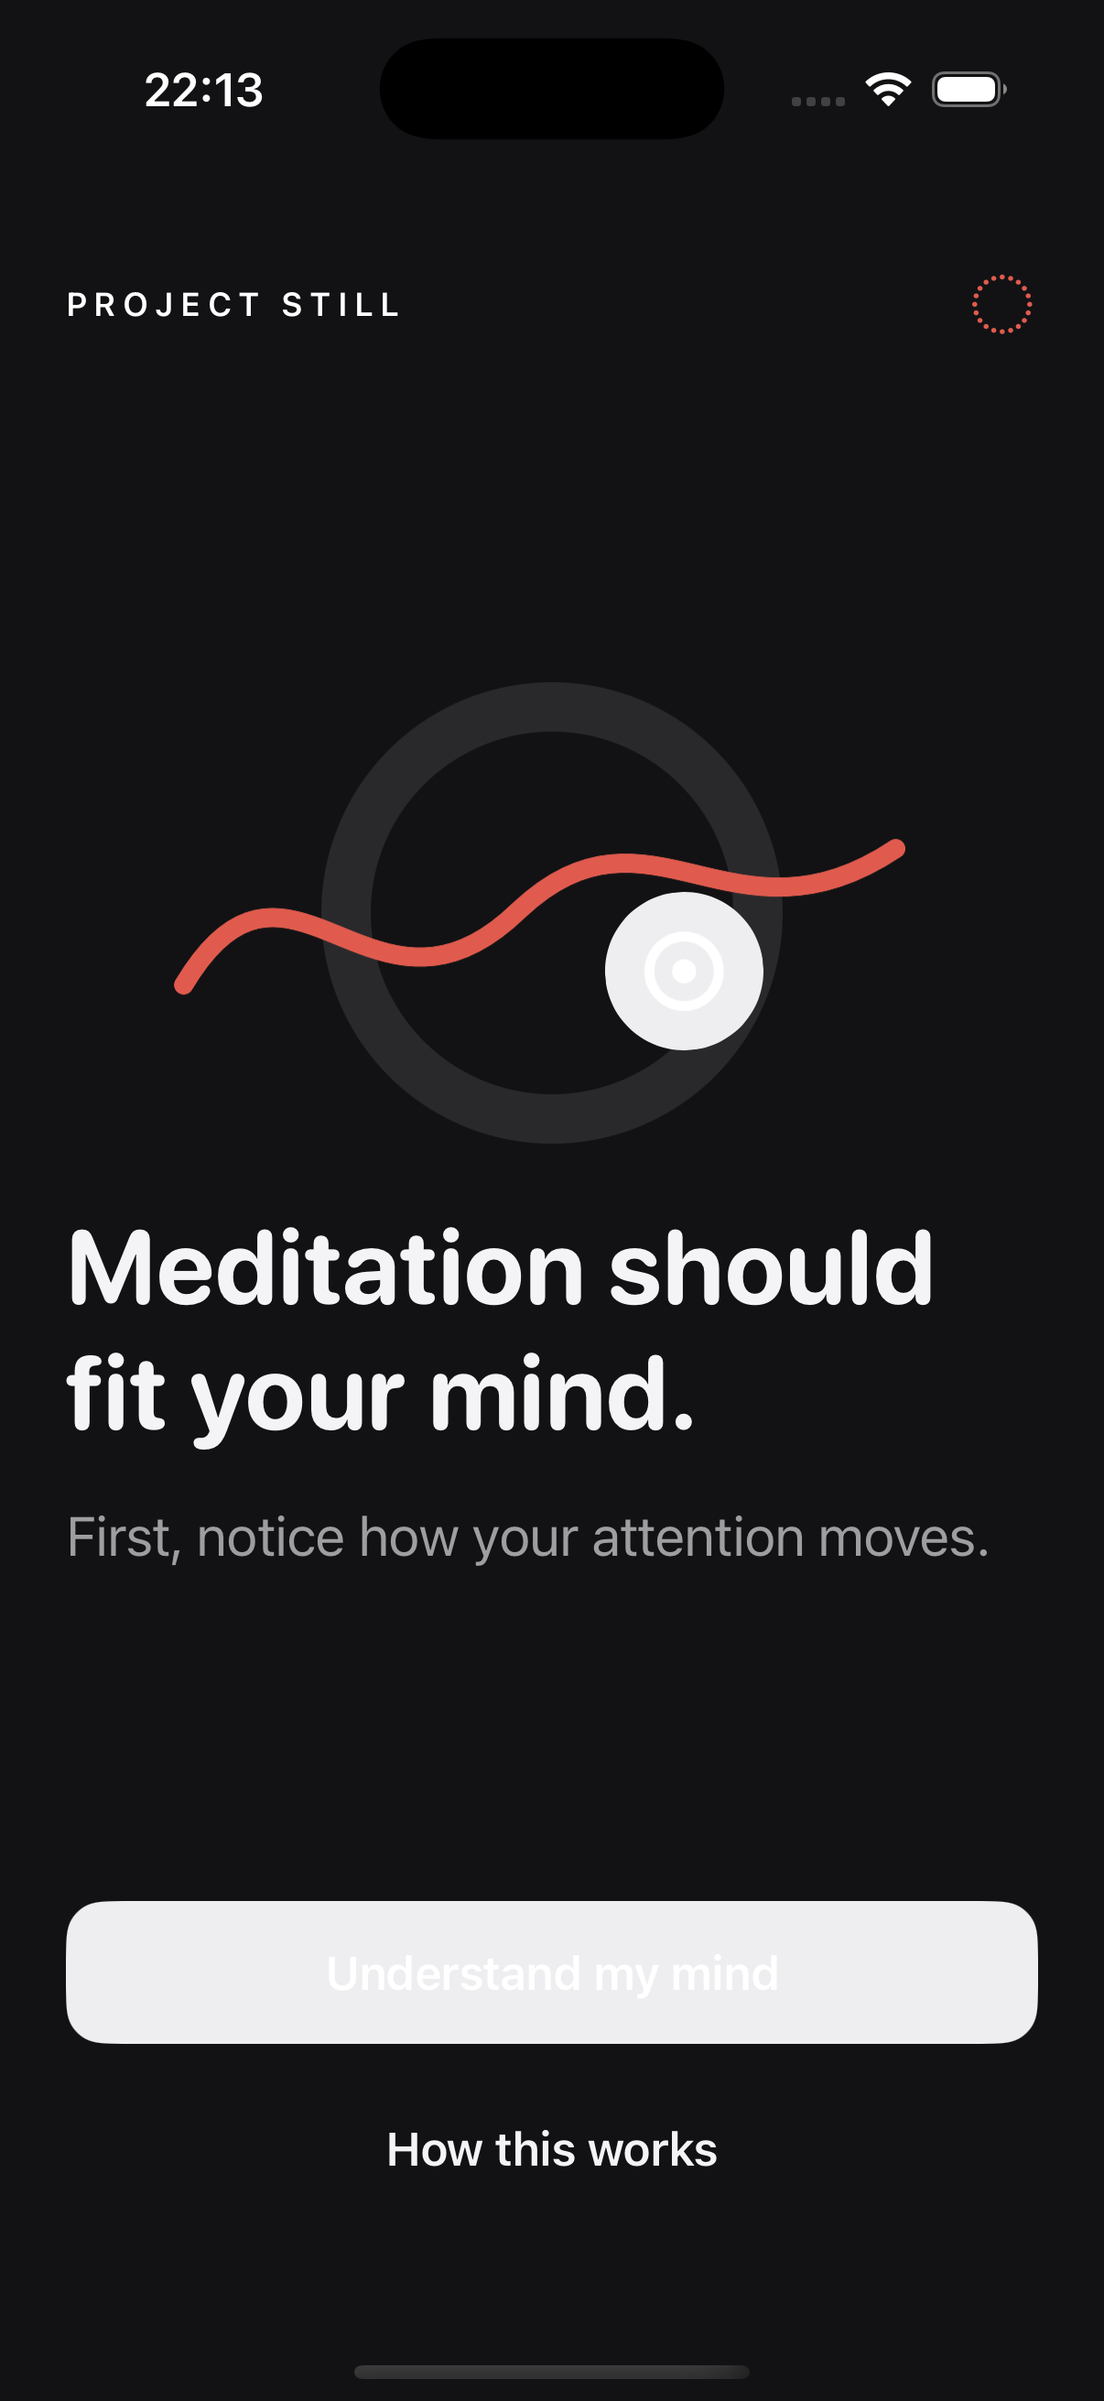
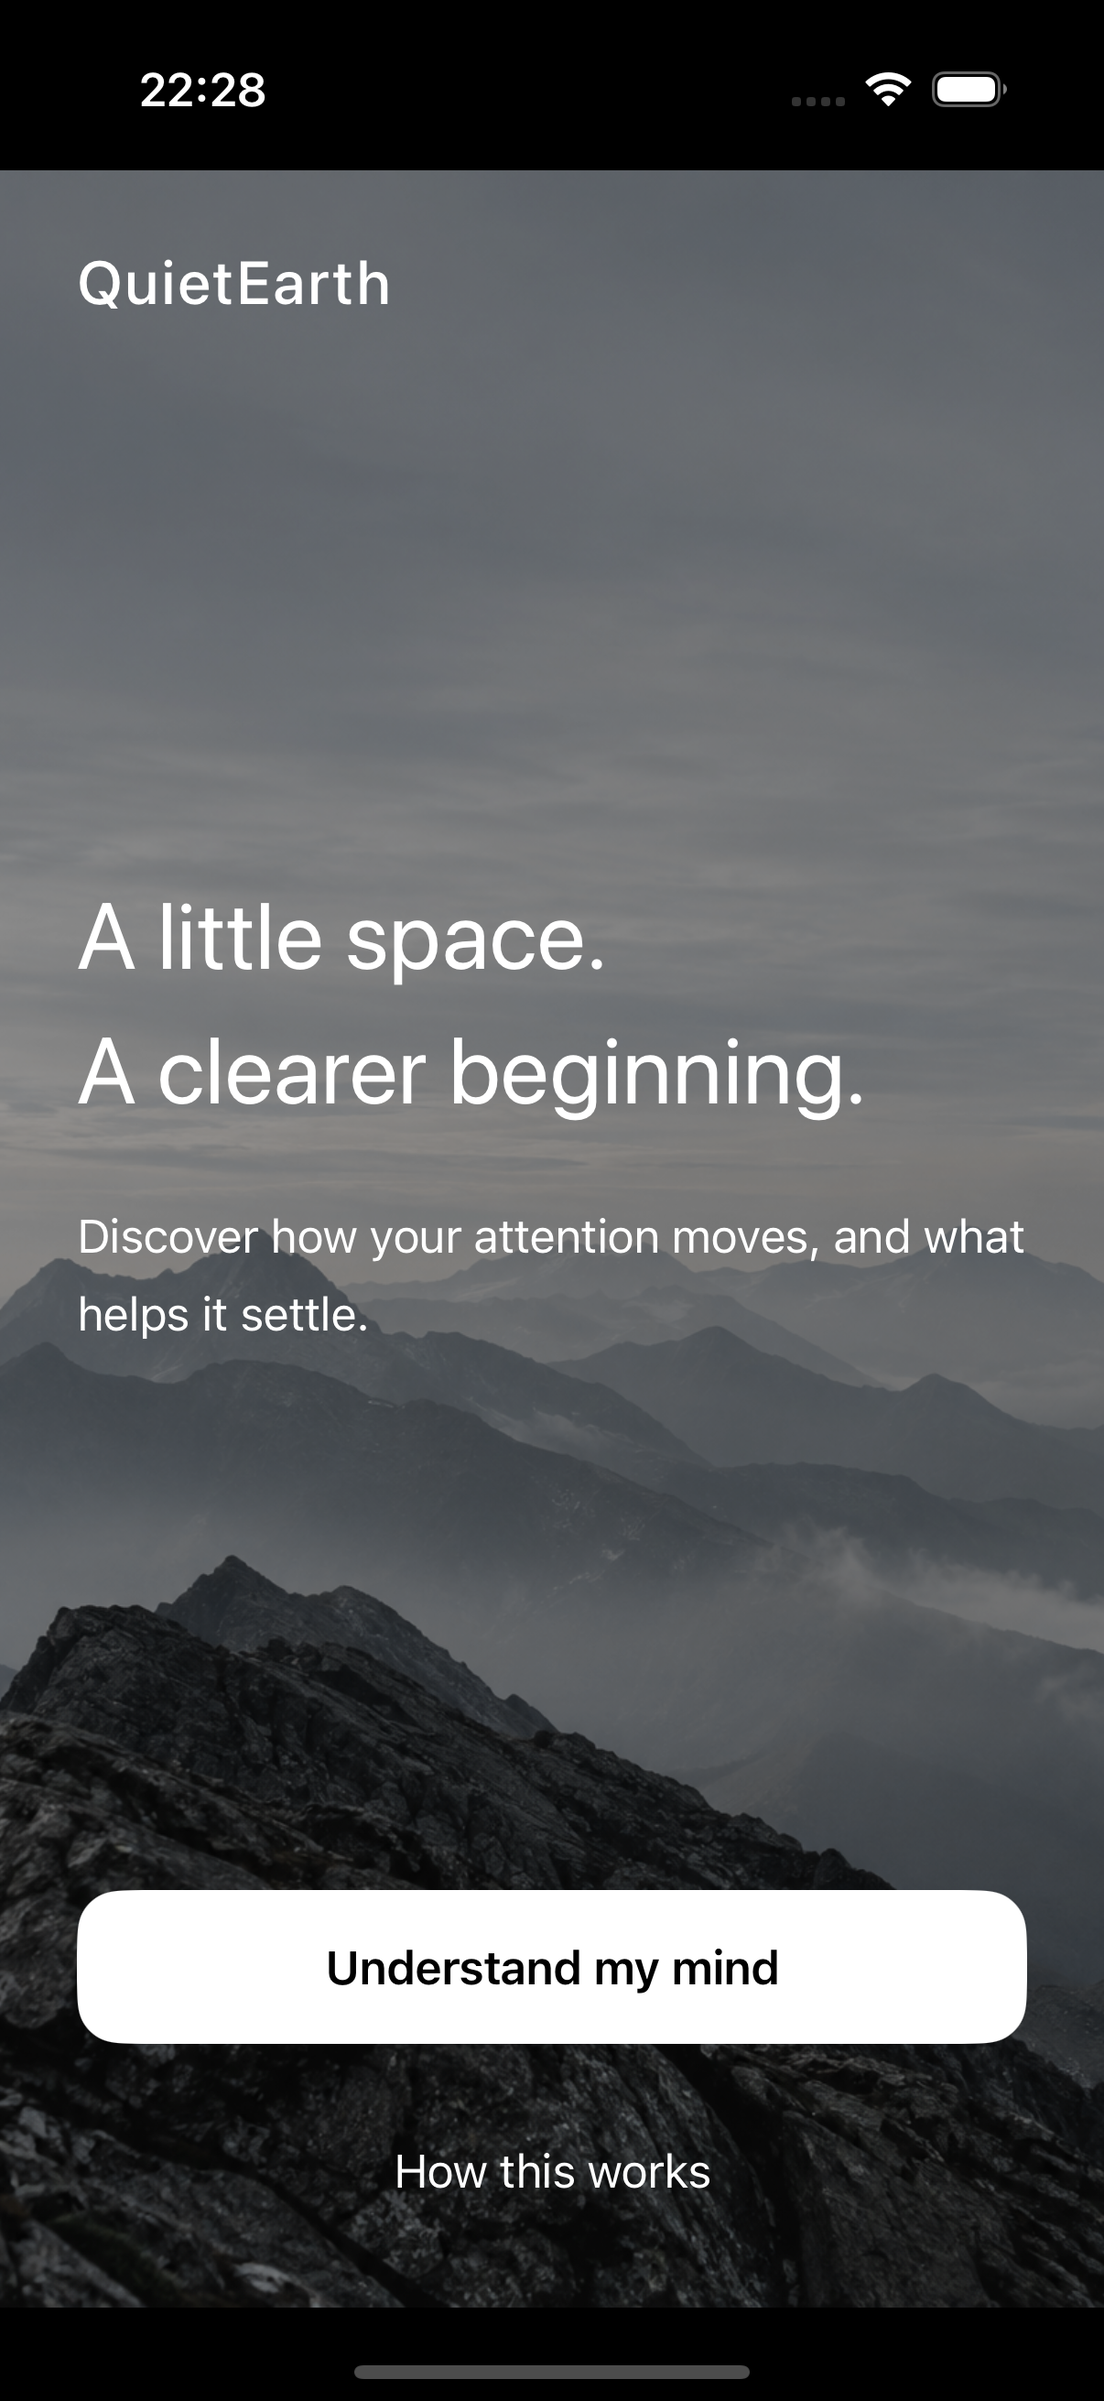
Finish QuietEarth landscape identity and quiet reading interface

diff --git a/ProjectStill/Features/Onboarding/OpeningView.swift b/ProjectStill/Features/Onboarding/OpeningView.swift
@@ -6,54 +6,48 @@ struct OpeningView: View {
     let onLearnMore: () -> Void
 
     var body: some View {
-        ZStack {
-            Color.quietPaper.ignoresSafeArea()
-
-            VStack(alignment: .leading, spacing: QuietSpacing.section) {
-                HStack {
-                    Text("PROJECT STILL")
-                        .font(.caption.weight(.semibold))
-                        .tracking(2.4)
-                    Spacer()
-                    Image(systemName: "circle.dotted")
-                        .font(.title2)
-                        .foregroundStyle(Color.quietCoral)
+        GeometryReader { geometry in
+            ZStack {
+                Image("QuietEarthLandscape")
+                    .resizable()
+                    .scaledToFill()
+                    .frame(width: geometry.size.width, height: geometry.size.height)
+                    .clipped()
+                    .overlay(Color.black.opacity(0.40))
+                    .accessibilityHidden(true)
+                ScrollView {
+                    VStack(alignment: .leading, spacing: 24) {
+                        Text("QuietEarth")
+                            .font(.title2.weight(.medium))
+                            .tracking(1)
+                            .padding(.top, 24)
+                        Spacer(minLength: 100)
+                        Text("A little space.\nA clearer beginning.")
+                            .font(.quietDisplay)
+                            .accessibilityAddTraits(.isHeader)
+                        Text("Discover how your attention moves, and what helps it settle.")
+                            .font(.body)
+                            .lineSpacing(4)
+                        Spacer(minLength: 60)
+                        Button(primaryTitle, action: onBegin)
+                            .font(.headline)
+                            .foregroundStyle(Color.black)
+                            .frame(maxWidth: .infinity, minHeight: 56)
+                            .background(.white, in: RoundedRectangle(cornerRadius: 16))
+                            .accessibilityIdentifier("opening.begin")
+                        Button("How this works", action: onLearnMore)
+                            .font(.body)
+                            .frame(maxWidth: .infinity, minHeight: 44)
+                            .accessibilityIdentifier("opening.learnMore")
+                    }
+                    .foregroundStyle(.white)
+                    .padding(.horizontal, 28)
+                    .padding(.bottom, 28)
+                    .frame(minHeight: geometry.size.height, alignment: .topLeading)
                 }
-
-                Spacer(minLength: 28)
-
-                VStack(alignment: .leading, spacing: QuietSpacing.standard) {
-                    AttentionPathHero()
-                    Text("Meditation should fit your mind.")
-                        .font(.quietDisplay)
-                        .foregroundStyle(Color.quietInk)
-                        .accessibilityAddTraits(.isHeader)
-                    Text("First, notice how your attention moves.")
-                        .font(.title3)
-                        .foregroundStyle(Color.quietInk.opacity(0.62))
-                }
-
-                Spacer(minLength: 28)
-                VStack(spacing: QuietSpacing.standard) {
-                    Button(primaryTitle, action: onBegin)
-                        .buttonStyle(.primaryAction)
-                        .accessibilityIdentifier("opening.begin")
-
-                    Button("How this works", action: onLearnMore)
-                        .font(.headline)
-                        .frame(minHeight: 44)
-                        .foregroundStyle(Color.quietInk)
-                        .accessibilityIdentifier("opening.learnMore")
-                }
-
             }
-            .padding(.horizontal, QuietSpacing.generous)
-            .padding(.vertical, QuietSpacing.section)
         }
+        .background(Color.black.ignoresSafeArea())
         .toolbar(.hidden, for: .navigationBar)
     }
-}
-
-#Preview {
-    OpeningView(onBegin: {}, onLearnMore: {})
 }

diff --git a/ProjectStill/DesignSystem/ContourField.swift b/ProjectStill/DesignSystem/ContourField.swift
@@ -1,83 +1,1 @@
-import SwiftUI
-
-struct ContourField: View {
-    var alignment: Alignment = .center
-
-    var body: some View {
-        Canvas { context, size in
-            let originX = alignment == .topTrailing ? size.width * 0.7 : size.width * 0.5
-            let originY = alignment == .topTrailing ? size.height * 0.16 : size.height * 0.5
-            for index in 0..<4 {
-                let radius = CGFloat(72 + index * 34)
-                let rect = CGRect(
-                    x: originX - radius,
-                    y: originY - radius * 0.72,
-                    width: radius * 2,
-                    height: radius * 1.44
-                )
-                context.stroke(
-                    Path(ellipseIn: rect),
-                    with: .color(.quietSeaGlass.opacity(0.08)),
-                    lineWidth: 1
-                )
-            }
-        }
-        .allowsHitTesting(false)
-        .accessibilityHidden(true)
-    }
-}
-
-struct AttentionPathHero: View {
-    @Environment(\.accessibilityReduceMotion) private var reduceMotion
-    @State private var isMoving = false
-
-    var body: some View {
-        GeometryReader { proxy in
-            ZStack {
-                Circle()
-                    .stroke(Color.quietInk.opacity(0.1), lineWidth: 18)
-                    .frame(width: 150, height: 150)
-
-                Canvas { context, size in
-                    var path = Path()
-                    path.move(to: CGPoint(x: size.width * 0.05, y: size.height * 0.7))
-                    path.addCurve(
-                        to: CGPoint(x: size.width * 0.46, y: size.height * 0.48),
-                        control1: CGPoint(x: size.width * 0.18, y: size.height * 0.18),
-                        control2: CGPoint(x: size.width * 0.28, y: size.height * 0.9)
-                    )
-                    path.addCurve(
-                        to: CGPoint(x: size.width * 0.92, y: size.height * 0.3),
-                        control1: CGPoint(x: size.width * 0.62, y: size.height * 0.12),
-                        control2: CGPoint(x: size.width * 0.72, y: size.height * 0.62)
-                    )
-                    context.stroke(
-                        path,
-                        with: .color(.quietCoral),
-                        style: StrokeStyle(lineWidth: 7, lineCap: .round, lineJoin: .round)
-                    )
-                }
-                .padding(28)
-                .offset(y: isMoving ? -2 : 2)
-
-                Image(systemName: "smallcircle.filled.circle")
-                    .font(.system(size: 28, weight: .bold))
-                    .foregroundStyle(Color.quietOnAccent)
-                    .padding(12)
-                    .background(Color.quietNeem)
-                    .clipShape(Circle())
-                    .offset(x: proxy.size.width * 0.13, y: proxy.size.height * 0.14)
-                    .rotationEffect(.degrees(isMoving ? 7 : -7))
-            }
-        }
-        .frame(height: 180)
-        .onAppear {
-            guard !reduceMotion else { return }
-            withAnimation(.easeInOut(duration: 2.4).repeatForever(autoreverses: true)) {
-                isMoving = true
-            }
-        }
-        .accessibilityElement(children: .ignore)
-        .accessibilityLabel("A simple line follows a wandering attention path.")
-    }
-}
+// QuietEarth uses a bundled still landscape. Decorative animation is intentionally absent.

diff --git a/ProjectStill/Features/Profile/ProfileView.swift b/ProjectStill/Features/Profile/ProfileView.swift
@@ -17,13 +17,13 @@ struct ProfileView: View {
         ScrollView {
             VStack(alignment: .leading, spacing: QuietSpacing.section) {
                 VStack(alignment: .leading, spacing: QuietSpacing.compact) {
-                    Text("CURRENT VIEW")
+                    Text("QUIETEARTH / YOUR REFLECTION")
                         .font(.caption.weight(.semibold))
                         .tracking(1.8)
                         .foregroundStyle(Color.quietNeem)
 
                     Text(profile.interpretation.title)
-                        .font(.system(.title, design: .rounded, weight: .bold))
+                        .font(.system(.title, design: .default, weight: .regular))
                         .foregroundStyle(Color.quietInk)
                         .accessibilityAddTraits(.isHeader)
                         .accessibilityIdentifier("profile.title")
@@ -155,14 +155,15 @@ private struct HypothesisCard: View {
                     Text(hypothesis.support.title.uppercased())
                         .font(.caption2.weight(.bold))
                         .tracking(1)
-                        .foregroundStyle(hypothesis.support == .contested ? Color.quietCoral : Color.quietNeem)
+                        .foregroundStyle(Color.quietInk.opacity(0.7))
                     Spacer()
                     Text("\(hypothesis.evidenceStrength.title) evidence")
                         .font(.caption2)
                         .foregroundStyle(Color.quietInk.opacity(0.56))
                 }
                 Text(hypothesis.statement)
-                    .font(.headline)
+                    .multilineTextAlignment(.leading)
+                    .font(.body)
                     .foregroundStyle(Color.quietInk)
             }
         }

diff --git a/ProjectStill/Features/Onboarding/PrivacyChoiceView.swift b/ProjectStill/Features/Onboarding/PrivacyChoiceView.swift
@@ -27,20 +27,13 @@ struct PrivacyChoiceView: View {
                     EvidenceChoiceCard(
                         title: "Ask your AI",
                         detail: "Your chats stay with your AI provider. You bring back only the profile you approve.",
-                        badge: "RECOMMENDED",
+                        badge: nil,
                         isEnabled: true,
                         action: onExternalAI
                     )
-                    EvidenceChoiceCard(
-                        title: "Import an export",
-                        detail: "Experimental. Selected history will be analyzed on-device where possible.",
-                        badge: "M7",
-                        isEnabled: false,
-                        action: {}
-                    )
                 }
 
-                Text("Choice flows arrive in the next milestones.")
+                Text("You can change your answers or add another view later.")
                     .font(.footnote)
                     .foregroundStyle(Color.quietInk.opacity(0.58))
                     .frame(maxWidth: .infinity, alignment: .center)

diff --git a/ProjectStill/DesignSystem/QuietTheme.swift b/ProjectStill/DesignSystem/QuietTheme.swift
@@ -25,7 +25,7 @@ extension Color {
                 : UIColor(red: 36 / 255, green: 36 / 255, blue: 41 / 255, alpha: 1)
         }
     )
-    static let quietOnAccent = Color.white
+    static let quietOnAccent = Color(uiColor: UIColor { $0.userInterfaceStyle == .dark ? .black : .white })
     static let quietClay = Color(red: 224 / 255, green: 91 / 255, blue: 78 / 255)
     static let quietSaffron = Color(red: 247 / 255, green: 177 / 255, blue: 88 / 255)
     static let quietSeaGlass = Color(red: 168 / 255, green: 168 / 255, blue: 178 / 255)
@@ -62,8 +62,8 @@ enum QuietSpacing {
 }
 
 extension Font {
-    static let quietDisplay = Font.system(size: 38, weight: .bold, design: .rounded)
-    static let quietTitle = Font.system(.title2, design: .rounded, weight: .semibold)
+    static let quietDisplay = Font.system(.largeTitle, design: .default, weight: .regular)
+    static let quietTitle = Font.system(.title2, design: .default, weight: .medium)
     static let quietBody = Font.system(.body, design: .default, weight: .regular)
 }
 

diff --git a/ProjectStill/Features/Profile/EvidenceComparisonView.swift b/ProjectStill/Features/Profile/EvidenceComparisonView.swift
@@ -115,7 +115,7 @@ struct EvidenceComparisonView: View {
         }
         .padding(QuietSpacing.standard)
         .frame(maxWidth: .infinity, alignment: .leading)
-        .background(color.opacity(0.16))
+        .background(Color.quietSurface)
         .clipShape(RoundedRectangle(cornerRadius: 16, style: .continuous))
     }
 
@@ -140,7 +140,7 @@ struct EvidenceComparisonView: View {
         }
         .padding(QuietSpacing.standard)
         .frame(maxWidth: .infinity, alignment: .leading)
-        .background(color.opacity(0.16))
+        .background(Color.quietSurface)
         .clipShape(RoundedRectangle(cornerRadius: 16, style: .continuous))
     }
 }

diff --git a/ProjectStill/Features/Onboarding/HowItWorksView.swift b/ProjectStill/Features/Onboarding/HowItWorksView.swift
@@ -17,7 +17,7 @@ struct HowItWorksView: View {
                     .foregroundStyle(Color.quietInk)
                     .accessibilityAddTraits(.isHeader)
 
-                Text("ProjectStill does not diagnose you or assign a permanent mind type. It builds a provisional picture, shows its uncertainty, and tests what may help now.")
+                Text("QuietEarth begins with a provisional picture of your attention. You can explore the evidence and revise your answers at any time.")
                     .font(.quietBody)
                     .foregroundStyle(Color.quietInk.opacity(0.76))
                     .lineSpacing(5)

diff --git a/ProjectStill/Features/Questionnaire/QuestionnaireView.swift b/ProjectStill/Features/Questionnaire/QuestionnaireView.swift
@@ -18,6 +18,7 @@ struct QuestionnaireView: View {
     }
 
     var body: some View {
+        ScrollView {
         VStack(alignment: .leading, spacing: QuietSpacing.section) {
             VStack(alignment: .leading, spacing: QuietSpacing.compact) {
                 Text("Question \(currentIndex + 1) of \(questions.count)")
@@ -71,6 +72,7 @@ struct QuestionnaireView: View {
             }
         }
         .padding(QuietSpacing.generous)
+        }
         .background(Color.quietPaper.ignoresSafeArea())
         .navigationTitle("Your attention")
         .navigationBarTitleDisplayMode(.inline)

diff --git a/ProjectStill/DesignSystem/PrimaryActionButtonStyle.swift b/ProjectStill/DesignSystem/PrimaryActionButtonStyle.swift
@@ -11,7 +11,6 @@ struct PrimaryActionButtonStyle: ButtonStyle {
             .background(isEnabled ? Color.quietNeem : Color.quietNeem.opacity(0.45))
             .clipShape(RoundedRectangle(cornerRadius: 14, style: .continuous))
             .opacity(configuration.isPressed ? 0.82 : 1)
-            .animation(.easeOut(duration: 0.2), value: configuration.isPressed)
     }
 }
 

diff --git a/duck/evidence/M1.6/visual-final.md b/duck/evidence/M1.6/visual-final.md
@@ -1,0 +1,19 @@
+# QuietEarth visual completion
+
+The visible identity is QuietEarth. Open supplied the reference for restrained composition; the landscape direction draws on the sense of place requested through Calm and Portal. The interface uses neutral grey, white and charcoal without ivory or teal.
+
+The opening uses a bundled, still landscape. Reading screens remain plain with responsive system typography, a single initial hypothesis, optional evidence disclosures, and neutral disagreement styling. Questionnaire content scrolls at large text sizes. Continuous decorative animation is removed, and light/dark button foregrounds are paired for contrast. The privacy screen contains only available choices, without recommendation badges or future-milestone placeholders.
+
+## Image provenance
+
+Generated with the built-in image-generation tool; bundled at `ProjectStill/Assets.xcassets/QuietEarthLandscape.imageset/landscape.png`. The app icon is a square crop of the same asset.
+
+Prompt: “Use case: photorealistic-natural. Create a portrait photographic landscape asset for QuietEarth iPhone meditation app. Still, spacious, premium editorial photograph of layered slate-grey mountain ridges receding into soft silver mist under a vast pale cool grey sky. Bottom third dark textured rock ridge, middle distant hazy mountains, upper half empty sky. Subtle natural light, restrained almost monochrome palette, no teal, no ivory, no beige, no green cast, no sun disk. Fine real photographic detail, calm atmospheric depth. No people, buildings, text, logo, graphic overlays. Portrait 1024x1536.”
+
+The asset is generated imagery, not a photograph of an identified real location. No network access is required to display it. This is an inclusive design pass, not clinical validation for ADHD or OCD.
+
+## Verification
+
+Simulator regression test command exited successfully on 2026-09-14. Result bundle: `Test-ProjectStill-2026.09.14_22-26-19-+0200.xcresult`. The final copy and neutral comparison-surface changes were followed by a successful build. Opening and profile screenshots were inspected in light and dark mode. Maximum accessibility text size was inspected on the opening; content expands vertically in its scroll view. Smaller-device and full VoiceOver audits have not been completed.
+
+Current captures: `opening-light.png`, `opening-dark.png`, `opening-large-text.png`, `profile-hypotheses.png`, `profile-dark.png`. The earlier `opening-reduce-motion.png` is historical; the current opening has no animation at any motion setting.

diff --git a/duck/05_human_summary.md b/duck/05_human_summary.md
@@ -1,5 +1,7 @@
 # TheDuck — Human Summary
 
+Visual update: the public identity is now QuietEarth, with a bundled still mountain landscape, neutral reading surfaces, lighter responsive typography, and corrected dark-mode action contrast. Continuous decorative animation and unavailable import placeholders are removed. See `duck/evidence/M1.6/visual-final.md` for current screenshots, asset provenance, and verification limits.
+
 We are building a small, serious meditation app that does not begin by telling everyone to breathe for ten minutes.
 
 It first asks how the user's mind behaves, optionally lets the user bring in a privacy-preserving profile generated inside their own ChatGPT/Claude, and then shows where self-perception and observed behavior agree or disagree.
